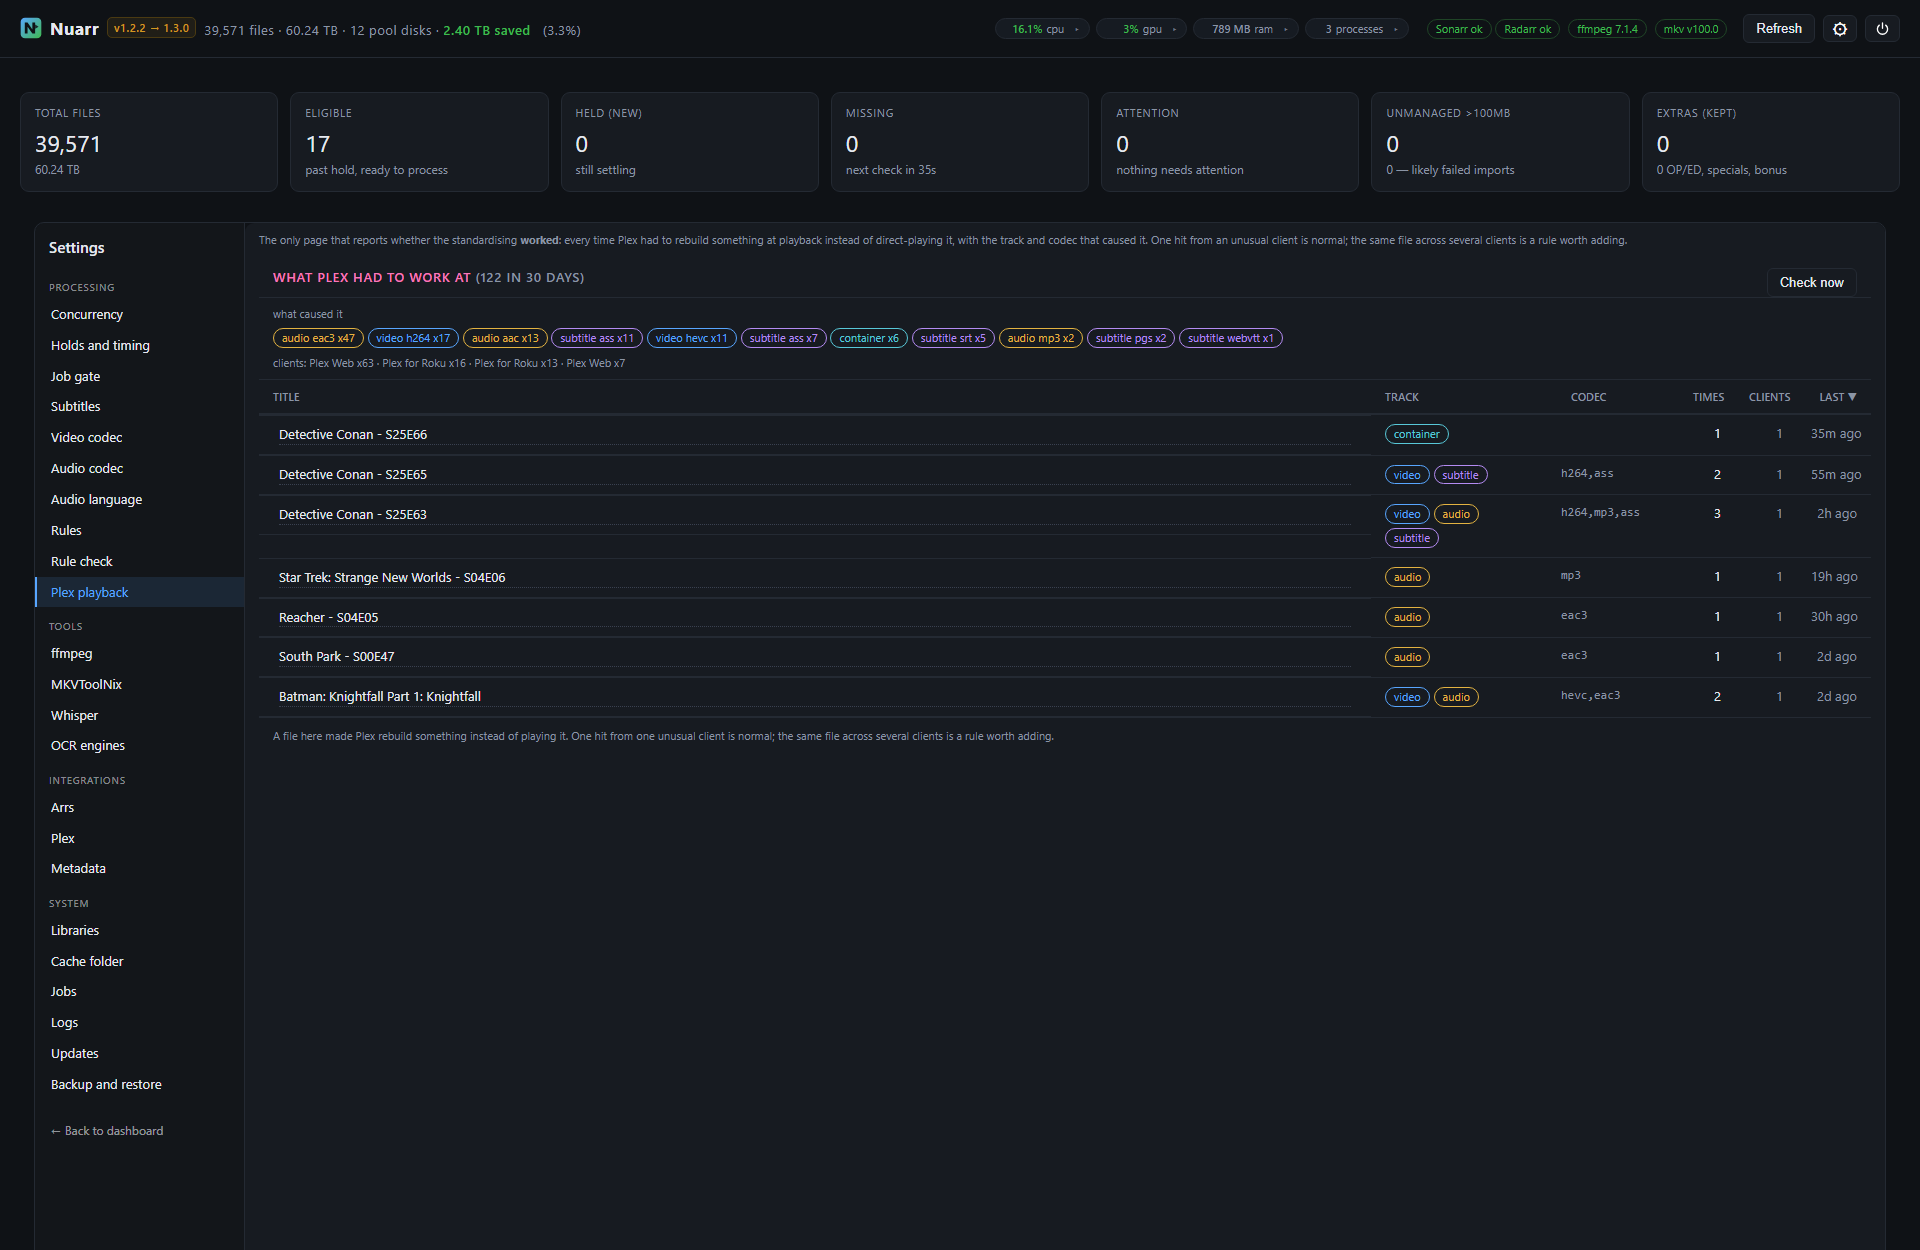
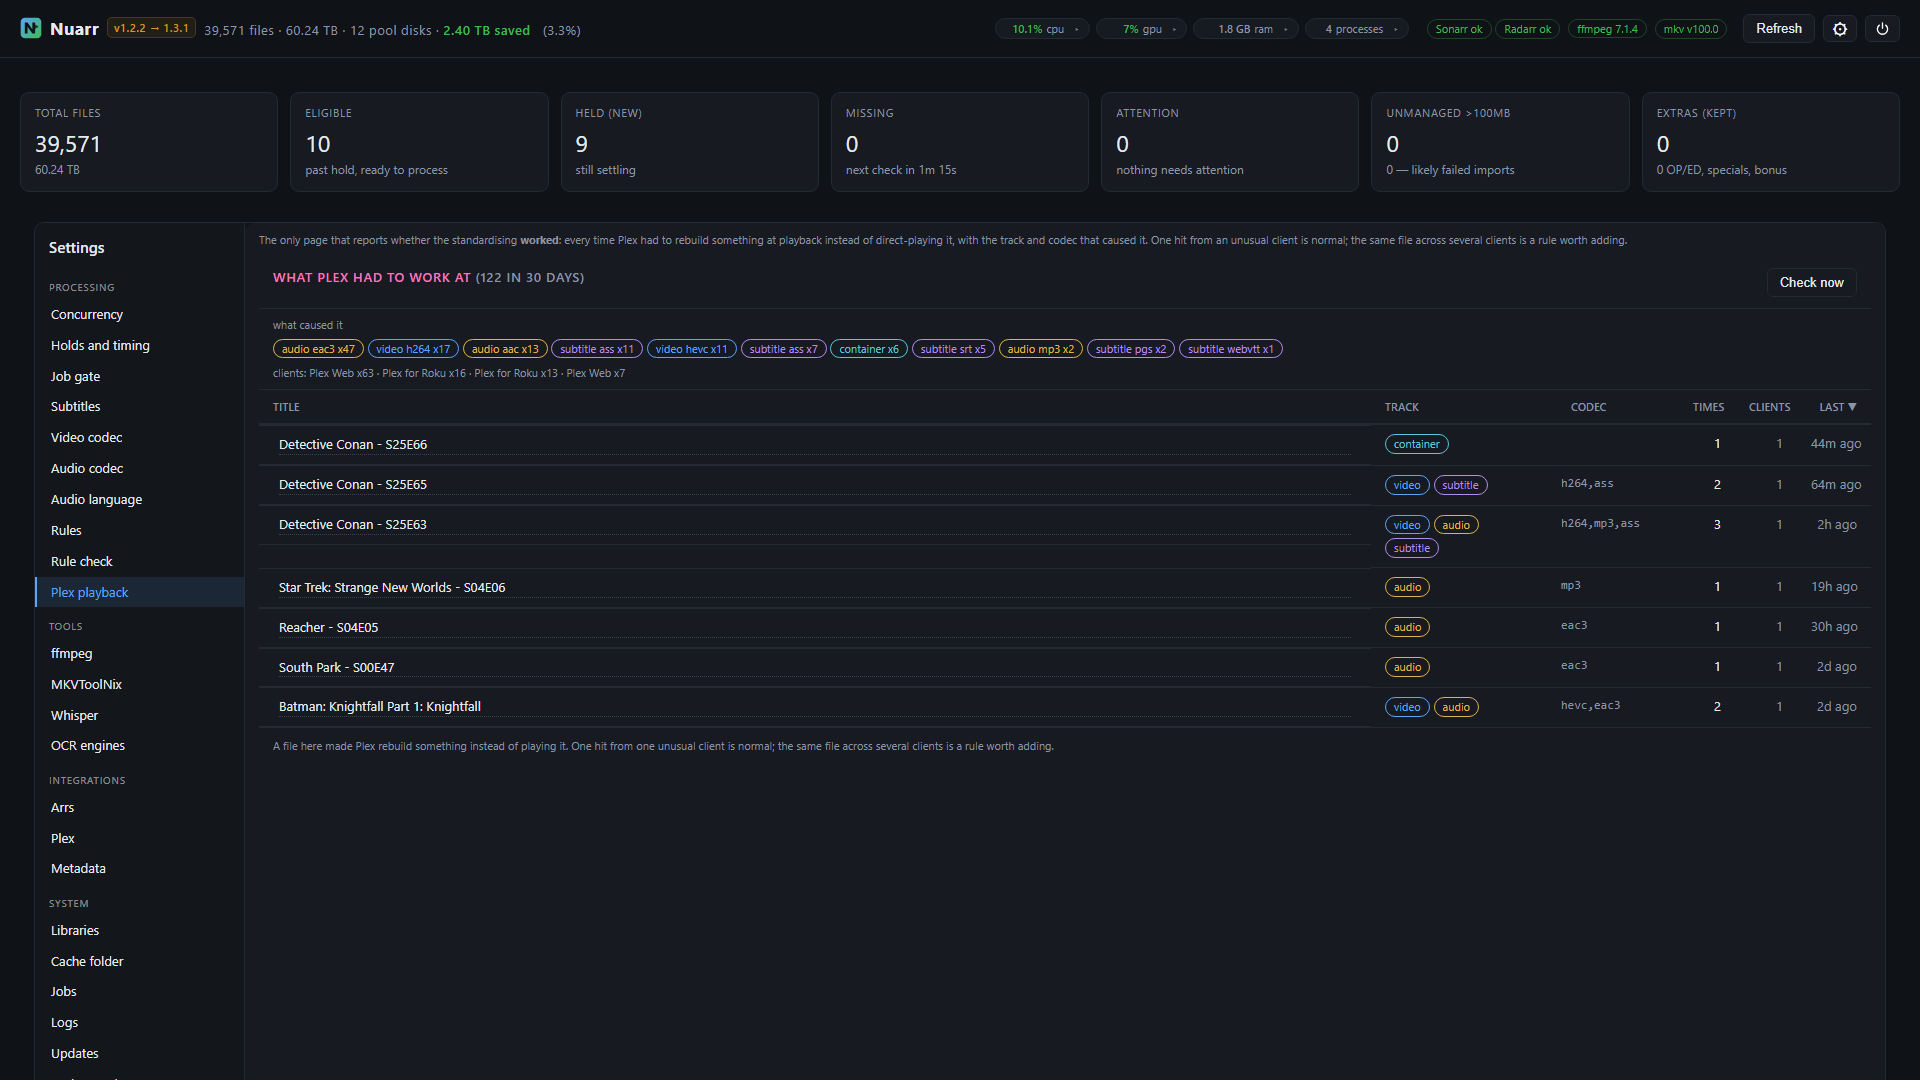
nuarr 1.3.2 - the moved panels actually fill their page (the previous rule matched nothing)

diff --git a/app/web.py b/app/web.py
@@ -20981,9 +20981,25 @@ _SETTINGS_CSS = """
    header scrolling away from the rows it describes. Full width, and tall
    enough to use the window, with the scrolling inside the panel so the
    header and the freeze button stay put. */
-#plexworkPane .panel, #ruleschkPane .panel{margin:0;border:0}
+/* A FLEX COLUMN, NOT A max-height. The first attempt styled
+   `#plexworkPane .panel` - and the adoption moves the panel's CHILDREN into
+   the pane, so there is no .panel inside it and the rule matched nothing.
+   Worse, `max-height` only constrains: with seven rows the table stayed its
+   own small height and left most of the page empty, which is what "not
+   fitting the whole page" looks like.
+
+   So the chain is told to fill: pane, body and the list each take the height
+   they are given, and the list is the one part that scrolls. Few rows still
+   fill the page; many rows scroll inside it with the heading and buttons
+   staying put. min-height:0 on every level because a flex child defaults to
+   min-content and would otherwise refuse to shrink. */
+#plexworkPane, #ruleschkPane{display:flex;flex-direction:column;
+  height:100%;min-height:0}
+#plexworkBody, #ruleschkBody{flex:1;display:flex;flex-direction:column;
+  min-height:0;padding-bottom:0}
+#plexworkBody > h2, #ruleschkBody > h2{flex:0 0 auto}
 #plexworkPane .fullpane, #ruleschkPane .fullpane{
-  max-height:calc(100vh - 210px);overflow:auto;overflow-x:hidden}
+  flex:1 1 auto;min-height:220px;overflow:auto;overflow-x:hidden}
 #plexworkPane table, #ruleschkPane table{width:100%}
 
 /* The per-library subtitle-handling block, inside the expanded library. */

diff --git a/app/version.py b/app/version.py
@@ -22,7 +22,7 @@ import re
 #         setting that moved, anything that could surprise an existing install)
 # minor - a new capability
 # patch - a fix to something that was already meant to work
-VERSION = "1.3.1"
+VERSION = "1.3.2"
 
 # Filled in when a bundle is built, so a running install can say not just what
 # it is but when it was made. Left empty in a source checkout on purpose - an
